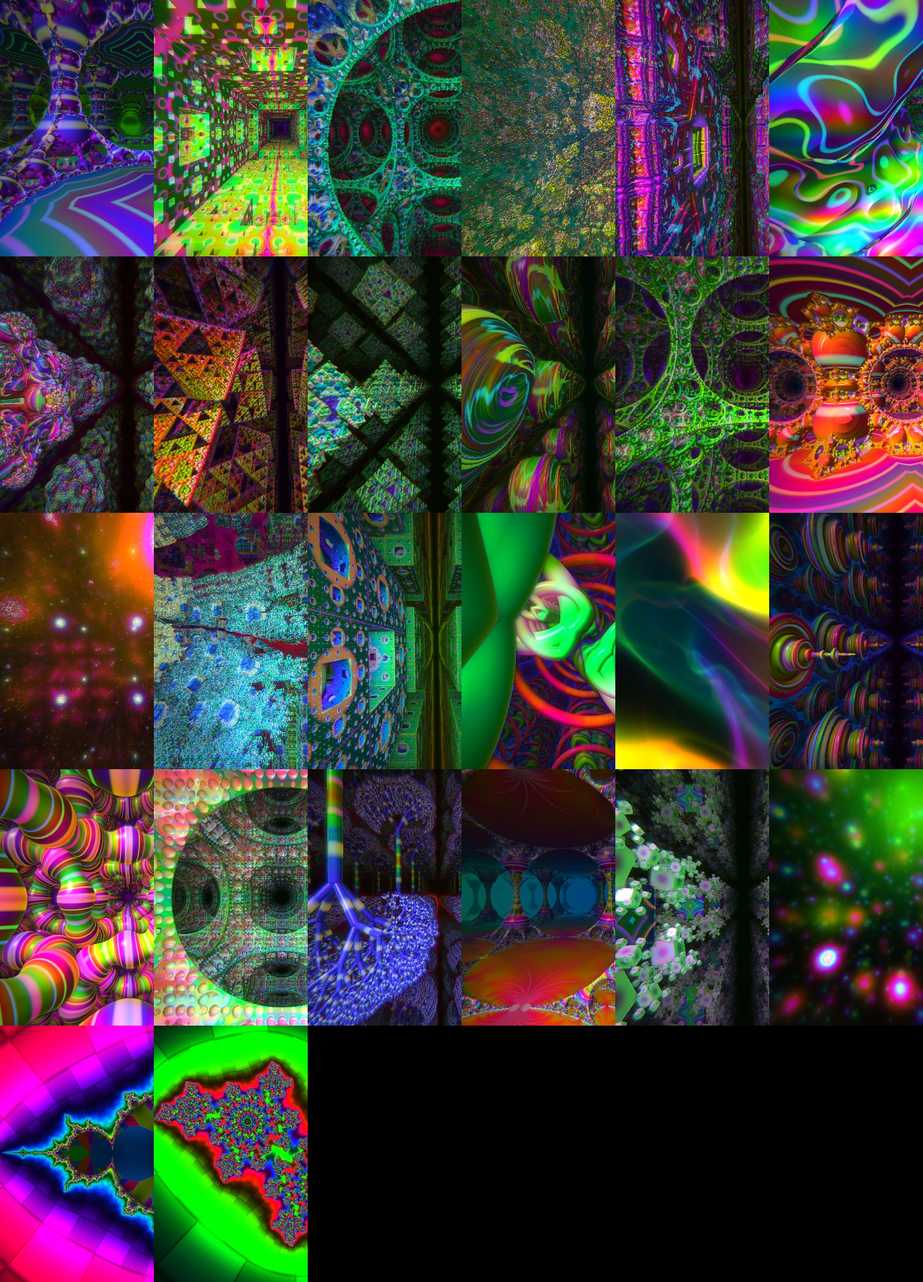
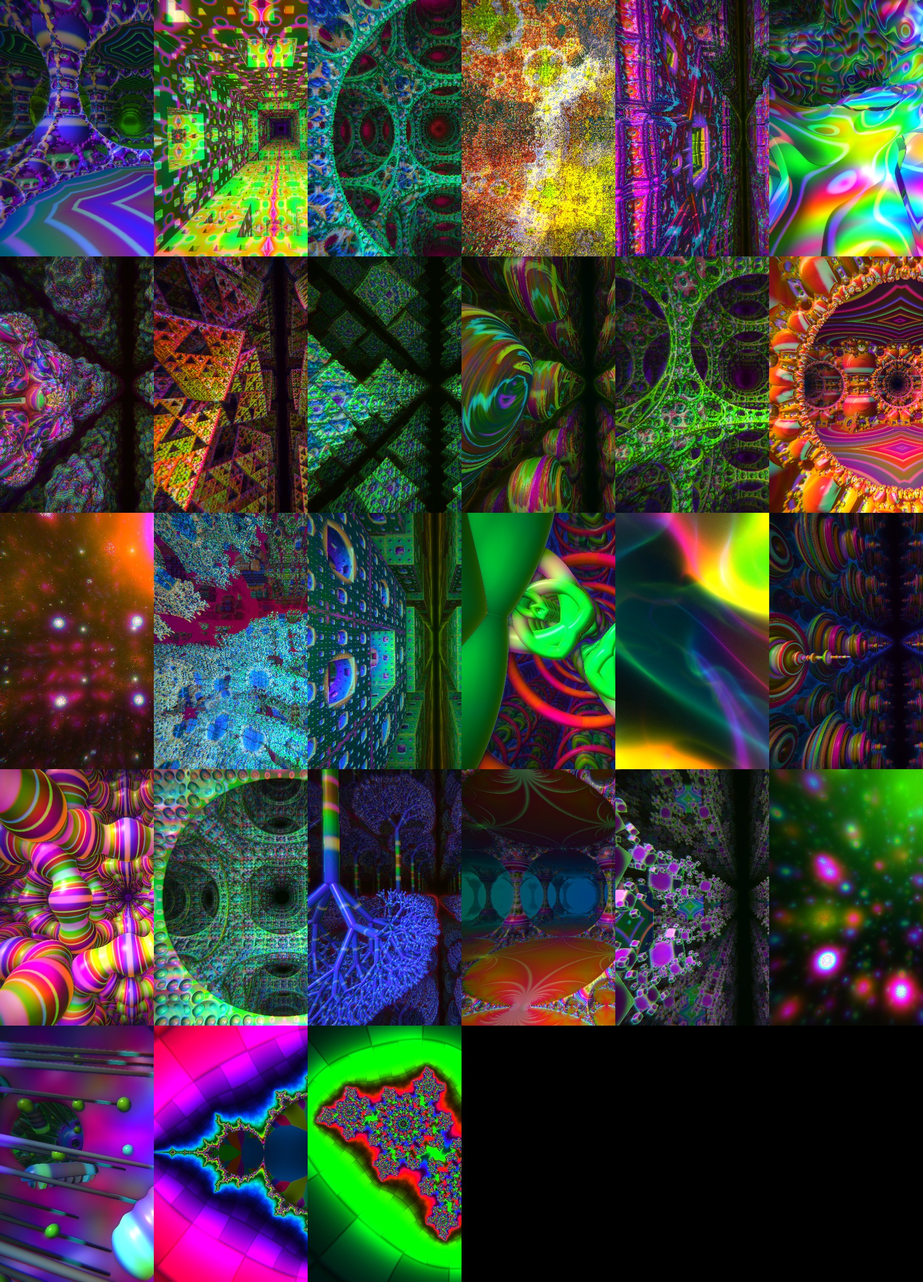
Cell: a new world, the inside of a living cell (membrane, nucleus, microtubules, mitochondria, vesicles)
One cell to every 8 units, each the mirror image of its neighbours, with an
opening in each side to fly through. The nucleus has 26 ringed pores; half the
mitochondria are cut open to show the plates inside. Mitochondria and vesicles
are placed per block with whole numbers, as in Tangle. The endoplasmic
reticulum, the Golgi, the centrosome and the inside of the nucleus are still
to come.

Claude-Session: https://claude.ai/code/session_01P6VPRAEHB2YHcMwxJHigoo

diff --git a/js/worlds.js b/js/worlds.js
@@ -653,6 +653,120 @@ export const WORLDS=[
  "  return lay(p,40.0-9.0*uM)+0.7*lay(p*2.0+3.3,34.0)+0.06*exp(-3.0*abs(dot(sin(p*0.7854),cos(p.zxy*0.7854))));",
  "}"],
  de:function(){return .25}},
+/* The inside of a living cell, one cell to every 8 units, each the mirror image of its neighbours so that the walls
+   between them meet exactly. The wall is the cell's membrane, with a round opening in the middle of each side; in the
+   middle is the nucleus, a hollow ball with 26 pores; thin straight tubes run from the nucleus out to the wall.
+   For those the point is folded into one forty-eighth of the cell (its three distances from the middle, largest
+   first), so each shape is written once. Between the nucleus and the wall lie mitochondria and vesicles, which are
+   not folded: which block of the cell holds one, and how it lies, comes from a number worked out from the block's
+   place with whole numbers only, as in Tangle, so the chip and JavaScript agree. */
+{id:"cell",name:"Cell",hue:.86,fog:.1,maxd:24,speed:.9,start:[2.5,-.5,-.55],
+ period:function(){return [16,16,16]},
+ glsl:[
+ "float smx(float a,float b,float k){float h=max(k-abs(a-b),0.0)/k;return max(a,b)+h*h*k*0.25;}",
+ "float mo(float x,float y){return floor(mod(x+0.5,y));}",
+ "float map(vec3 p){",
+ "  vec3 q=abs(mod(p+4.0,16.0)-8.0)-4.0;",
+ "  vec3 a=abs(q);",
+ "  if(a.x<a.y)a.xy=a.yx;",
+ "  if(a.x<a.z)a.xz=a.zx;",
+ "  if(a.y<a.z)a.yz=a.zy;",
+ "  float r=length(q);",
+ /* the membrane: everything outside a box with round corners, less a round opening along each axis */
+ "  float rip=0.04*sin(3.0*q.x)*sin(3.0*q.y)*sin(3.0*q.z);",
+ "  vec3 b=a-2.35;",
+ "  float box=length(max(b,0.0))+min(b.x,0.0)-1.5;",
+ "  float d=smx(rip-box,1.1-length(a.yz),0.35);",
+ "  orb=vec4(0.3*a.y,0.2*a.z,0.3+4.0*rip,0.06+0.02*a.x);",
+ /* the nucleus: a thin shell, with a pore on each axis, each edge's diagonal and each corner's, and a ring round each pore */
+ "  float pr=0.26+0.05*uM;",
+ "  float e2=length(a-vec3(0.5,0.5,0.0)*(a.x+a.y));",
+ "  float e3=length(a-vec3(a.x+a.y+a.z)/3.0);",
+ "  float pd=min(length(a.yz),min(e2,e3));",
+ "  float nu=min(smx(abs(r-1.5)-0.06,pr-pd,0.1),length(vec2(pd-pr,r-1.5))-0.07);",
+ "  if(nu<d){d=nu;orb=vec4(0.4*pd,0.3*abs(r-1.5),clamp(1.0-2.0*pd,0.0,1.0),0.42+0.25*pd);}",
+ /* the tubes: two straight rods from the nucleus to the wall, which the fold makes 96 */
+ "  vec3 w=vec3(0.8313,0.5154,0.2078);",
+ "  float mt=length(a-w*clamp(dot(a,w),1.5,4.8))-0.03;",
+ "  w=vec3(0.6880,0.6192,0.3784);",
+ "  mt=min(mt,length(a-w*clamp(dot(a,w),1.5,5.8))-0.03);",
+ "  if(mt<d){d=mt;orb=vec4(0.1,0.0,0.6,0.7+0.12*r);}",
+ /* the mitochondria: the cell is cut into 4 by 4 by 4 blocks, and three in four of the 24 blocks in the middle of a side
+    hold one, a capsule lying one of six ways. Half of them are cut open along their length to show the plates inside.
+    A block's shape stays 0.15 inside its block, so no point is nearer a neighbour's shape than its block's side plus 0.15. */
+ "  vec3 c2=min(floor(q*0.5+2.0),3.0);vec3 f=q-(2.0*c2-3.0);vec3 e=abs(c2-1.5);",
+ "  float n=c2.x+4.0*c2.y+16.0*c2.z;float h=mo(n*(n+3.0),61.0);",
+ "  float mi=1.15-max(abs(f.x),max(abs(f.y),abs(f.z)));",
+ "  bool has=abs(e.x+e.y+e.z-2.5)<0.25&&mo(h,4.0)>0.5;",
+ "  if(has){",
+ "    float k=mo(floor((h+0.5)*0.25),3.0);float s=h>30.5?0.7071:-0.7071;",
+ "    vec3 u=vec3(0.7071,s,0.0);vec3 v=vec3(0.0,0.0,1.0);",
+ "    if(k>0.5){u=u.zxy;v=v.zxy;}",
+ "    if(k>1.5){u=u.zxy;v=v.zxy;}",
+ "    float t=dot(f,u);float cp=length(f-u*clamp(t,-0.55,0.55))-0.28;",
+ "    float pl=abs(mod(t+4.0,0.2)-0.1)-0.03;",
+ "    if(mo(floor((h+0.5)*0.125),2.0)>0.5)cp=min(max(abs(cp)-0.025,dot(f,v)),max(cp+0.06,pl));",
+ "    else cp+=0.012*cos(31.4159*t);",
+ "    if(cp<mi){mi=cp;if(mi<d)orb=vec4(0.5*abs(t),0.2,0.5+2.0*pl,0.22+0.25*t);}",
+ "  }",
+ "  d=min(d,mi);",
+ /* the vesicles: the cell is cut into 8 by 8 by 8 small blocks too, and about a third of those between the nucleus and
+    the wall, outside the mitochondria's blocks, hold a ball of one of four sizes, a little off the block's middle */
+ "  vec3 c1=min(floor(q+4.0),7.0);vec3 cc=c1-3.5;vec3 f1=q-cc;",
+ "  float n1=c1.x+8.0*c1.y+64.0*c1.z;float h1=mo(n1*(n1+3.0),61.0);",
+ "  float ve=0.7-max(abs(f1.x),max(abs(f1.y),abs(f1.z)));",
+ "  if(!has&&h1<21.5&&max(abs(cc.x),max(abs(cc.y),abs(cc.z)))<3.0&&dot(cc,cc)>4.41){",
+ "    vec3 o=0.07*(vec3(mo(h1,3.0),mo(floor((h1+0.5)/3.0),3.0),mo(floor((h1+0.5)/9.0),3.0))-1.0);",
+ "    float vs=length(f1-o)-(0.09+0.025*mo(h1,4.0)+0.015*uM);",
+ "    if(vs<ve){ve=vs;if(ve<d)orb=vec4(0.3,0.1,0.2,0.9+0.01*h1);}",
+ "  }",
+ "  d=min(d,ve);",
+ "  return 0.8*d;",
+ "}"],
+ de:function(x,y,z,m){
+  function smx(a,b,k){var h=Math.max(k-Math.abs(a-b),0)/k;return Math.max(a,b)+h*h*k*.25}
+  function mo(v,k){return Math.floor(md(v+.5,k))}
+  function rod(wx,wy,wz,far){var t=Math.max(1.5,Math.min(far,ax*wx+ay*wy+az*wz));return Math.hypot(ax-wx*t,ay-wy*t,az-wz*t)-.03}
+  var qx=tile(x,8),qy=tile(y,8),qz=tile(z,8),ax=Math.abs(qx),ay=Math.abs(qy),az=Math.abs(qz),t;
+  if(ax<ay){t=ax;ax=ay;ay=t}
+  if(ax<az){t=ax;ax=az;az=t}
+  if(ay<az){t=ay;ay=az;az=t}
+  var r=Math.hypot(qx,qy,qz);
+  var rip=.04*Math.sin(3*qx)*Math.sin(3*qy)*Math.sin(3*qz);
+  var bx=ax-2.35,by=ay-2.35,bz=az-2.35;
+  var box=Math.hypot(Math.max(bx,0),Math.max(by,0),Math.max(bz,0))+Math.min(bx,0)-1.5;
+  var d=smx(rip-box,1.1-Math.hypot(ay,az),.35);
+  var pr=.26+.05*m,s=.5*(ax+ay),c=(ax+ay+az)/3;
+  var pd=Math.min(Math.hypot(ay,az),Math.hypot(ax-s,ay-s,az),Math.hypot(ax-c,ay-c,az-c));
+  d=Math.min(d,smx(Math.abs(r-1.5)-.06,pr-pd,.1),Math.hypot(pd-pr,r-1.5)-.07);
+  d=Math.min(d,rod(.8313,.5154,.2078,4.8),rod(.6880,.6192,.3784,5.8));
+  var c2x=Math.min(Math.floor(qx*.5+2),3),c2y=Math.min(Math.floor(qy*.5+2),3),c2z=Math.min(Math.floor(qz*.5+2),3);
+  var fx=qx-(2*c2x-3),fy=qy-(2*c2y-3),fz=qz-(2*c2z-3);
+  var n=c2x+4*c2y+16*c2z,h=mo(n*(n+3),61);
+  var mi=1.15-Math.max(Math.abs(fx),Math.abs(fy),Math.abs(fz));
+  var has=Math.abs(Math.abs(c2x-1.5)+Math.abs(c2y-1.5)+Math.abs(c2z-1.5)-2.5)<.25&&mo(h,4)>.5;
+  if(has){
+    var k=mo(Math.floor((h+.5)*.25),3),sg=h>30.5?.7071:-.7071,ux=.7071,uy=sg,uz=0,vx=0,vy=0,vz=1;
+    if(k>.5){t=uz;uz=uy;uy=ux;ux=t;t=vz;vz=vy;vy=vx;vx=t}
+    if(k>1.5){t=uz;uz=uy;uy=ux;ux=t;t=vz;vz=vy;vy=vx;vx=t}
+    var tt=fx*ux+fy*uy+fz*uz,tc=Math.max(-.55,Math.min(.55,tt)),cp=Math.hypot(fx-ux*tc,fy-uy*tc,fz-uz*tc)-.28;
+    var pl=Math.abs(md(tt+4,.2)-.1)-.03;
+    if(mo(Math.floor((h+.5)*.125),2)>.5)cp=Math.min(Math.max(Math.abs(cp)-.025,fx*vx+fy*vy+fz*vz),Math.max(cp+.06,pl));
+    else cp+=.012*Math.cos(31.4159*tt);
+    mi=Math.min(mi,cp);
+  }
+  d=Math.min(d,mi);
+  var c1x=Math.min(Math.floor(qx+4),7),c1y=Math.min(Math.floor(qy+4),7),c1z=Math.min(Math.floor(qz+4),7);
+  var ccx=c1x-3.5,ccy=c1y-3.5,ccz=c1z-3.5,gx=qx-ccx,gy=qy-ccy,gz=qz-ccz;
+  var n1=c1x+8*c1y+64*c1z,h1=mo(n1*(n1+3),61);
+  var ve=.7-Math.max(Math.abs(gx),Math.abs(gy),Math.abs(gz));
+  if(!has&&h1<21.5&&Math.max(Math.abs(ccx),Math.abs(ccy),Math.abs(ccz))<3&&ccx*ccx+ccy*ccy+ccz*ccz>4.41){
+    gx-=.07*(mo(h1,3)-1);gy-=.07*(mo(Math.floor((h1+.5)/3),3)-1);gz-=.07*(mo(Math.floor((h1+.5)/9),3)-1);
+    ve=Math.min(ve,Math.hypot(gx,gy,gz)-(.09+.025*mo(h1,4)+.015*m));
+  }
+  d=Math.min(d,ve);
+  return .8*d;
+ }},
 /* The two zoom worlds are flat pictures, not spaces: js/zoom.js draws them and moves the view. They are marked as cloud
    worlds too, so that everything that needs a surface (the orb's check, the thrown light, the distance probe) leaves them alone. */
 {id:"mzoom",name:"Mandelbrot zoom",hue:.55,fog:0,maxd:1,speed:.5,start:[.3,.2,.1],volume:true,flat:true,

diff --git a/index.html b/index.html
@@ -105,7 +105,7 @@
 <div id="start">
   <div class="card">
     <h1>Mirrorfold</h1>
-    <p>Twenty-six endless fractal worlds to fly through. They breathe, recolour and pulse with the music, and you can never hit a wall. Turn on Journey to sit back and be flown.</p>
+    <p>Twenty-seven endless fractal worlds to fly through. They breathe, recolour and pulse with the music, and you can never hit a wall. Turn on Journey to sit back and be flown.</p>
     <p>Each world hides a glowing orb. Fly into it. The first six you find each unlock a new palette. The Orbs button hides them.</p>
     <p id="how"></p>
     <p>For Apple Music or any other app: enter silent, start your song there, then set Music to Tap tempo and tap along.</p>

diff --git a/docs/ARCHITECTURE.md b/docs/ARCHITECTURE.md
@@ -10,7 +10,7 @@ Mirrorfold is a first-person fly-through of endless fractal worlds, rendered by 
 
 Features, in the order a user meets them:
 
-- **26 worlds.** 21 are surfaces found by sphere tracing a distance estimator; 3 (Nebula, Aurora, Lanterns) are volumetric; 2 (Mandelbrot zoom, Julia zoom) are flat pictures (section 6c).
+- **27 worlds.** 22 are surfaces found by sphere tracing a distance estimator; 3 (Nebula, Aurora, Lanterns) are volumetric; 2 (Mandelbrot zoom, Julia zoom) are flat pictures (section 6c).
 - **Free flight** with six degrees of freedom. Speed scales with distance to the nearest surface, so you cannot hit a wall.
 - **Kaleidoscope mirrors**: off, 3, 4, 6, 8 or 12 segments, applied to the ray direction.
 - **13 palettes** (7 available at once, 6 unlocked by finding orbs).
@@ -286,6 +286,7 @@ Two requirements matter more than anything else when adding or changing a world:
 | Thicket | Branching trees | Mirror tile `P=3`; a stem (capsule of length 1), then `p.y -= 1; p.xz = abs(p.xz)`, two leans, `p *= 1.6`; 7 levels; factor 0.8 | 6 | the lean |
 | Kleinian | Limit set of a Kleinian group (Jos Leys, Knighty) | y mirror-folded into the slab `[0, a]`; 12 times: wrap x and z to `[-1,1]`, turn the upper half over onto the lower, invert `p = -p/r2` and move by `(0, a)`; `0.6*min(y, a-y, 0.3)/max(df, 2)` | 2, 2a, 2 | `a = 1.9 + 0.04m` |
 | Pyrite | Cubes on cubes' corners | Mirror tile `P=4`; a cube of half-size 0.5, then `p = abs(p) - 0.66`, two rotations, `p *= 2.6`; 4 levels; factor 0.9 | 8 | rotation |
+| Cell | The inside of a living cell (not a fractal) | Mirror tile `P=8`, then the point's three distances from the cell's middle sorted largest first, so each shape is written once and appears 48 times. Membrane: outside a box of half-size 3.85 with corners of radius 1.5, less a round opening of radius 1.1 along each axis, rippled. Nucleus: a shell of radius 1.5 with 26 pores (axes, edge diagonals, corner diagonals), each with a ring. Microtubules: two rods from the nucleus to the wall, 96 after the fold. Mitochondria (not folded): the cell is cut into 4x4x4 blocks of side 2, and three in four of the 24 blocks in the middle of a side hold a capsule (half-length 0.55, radius 0.28) lying one of six ways, half of them cut open along their length to show plates inside; presence, direction and cut are bits of `n(n+3) mod 61`, `n` being the block's place. Vesicles: 8x8x8 blocks of side 1, about a third of those between nucleus and wall and outside a mitochondrion's block hold a ball of one of four sizes. A block's shape keeps a margin inside its block, and the distance is capped at the distance to the block's side plus that margin, so a neighbour's shape is never overstepped; factor 0.8. Built in stages: the endoplasmic reticulum, the Golgi, the centrosome and the inside of the nucleus are still to come | 16 | pore size, vesicle size |
 | Nebula | Volumetric Kaliset | `p = abs(p)/dot(p,p) - f`, 10 iterations, accumulating `|len - prevLen|`; cubed | 2 | `f = 0.55 + 0.03m` |
 | Aurora | Volumetric warped gyroid | Three octaves of `p += A*sin(p.yzx*F + t)`, then `exp(-k*|gyroid|)` ribbons | 2π | ribbon width |
 | Lanterns | Volumetric lights | One soft light to a unit cell and one to a half cell, each off its cell's middle by a hash of the cell (mod 8) and swaying with the clock, faded toward the cell's sides so that none is cut; plus a faint gyroid haze | 8 | size of the larger lights |

diff --git a/README.md b/README.md
@@ -13,7 +13,7 @@
 >
 > Mirrorfold is designed to avoid strobing, but it has **not** been tested or certified against any photosensitivity standard, and no setting makes it safe for everyone. It is not a medical device and nothing here is medical advice. It is provided "as is", without warranty of any kind, and you use it entirely at your own risk; see the [licence](LICENSE).
 
-Fly through endless fractal worlds in your browser. Twenty-six worlds, kaleidoscope mirrors, feedback trails, filters, overlays, and an autopilot that reacts to music.
+Fly through endless fractal worlds in your browser. Twenty-seven worlds, kaleidoscope mirrors, feedback trails, filters, overlays, and an autopilot that reacts to music.
 
 This project is inspired in part by the music visualizers from decades past… from Winamp plugins to the standalone visualizer MilkDrop. This has a familiar feel when in Journey mode (an autopilot that flies through the procedurally generated 3D worlds) while listening to music. 
 
@@ -31,7 +31,7 @@ Relax, unwind, and enjoy!
 
 **Try it: https://gcrabtree.github.io/MirrorFold/**
 
-![Contact sheet of all 26 worlds](docs/worlds.jpg)
+![Contact sheet of all 27 worlds](docs/worlds.jpg)
 
 The app is one page, one stylesheet and a folder of JavaScript modules. There is no build step and no JavaScript dependency. It uses WebGL 1, so it runs in any current browser on a phone or a desktop.
 
@@ -58,7 +58,7 @@ The app is one page, one stylesheet and a folder of JavaScript modules. There is
 
 ## What it does
 
-- **26 worlds.** Twenty-one are solid fractal surfaces; three (Nebula, Aurora and Lanterns) are glowing volumes; two (Mandelbrot zoom and Julia zoom) are flat pictures seen from above that zoom in and out. Every world you fly through repeats forever in all directions.
+- **27 worlds.** Twenty-two are solid surfaces, all fractals but Cell (the inside of a living cell); three (Nebula, Aurora and Lanterns) are glowing volumes; two (Mandelbrot zoom and Julia zoom) are flat pictures seen from above that zoom in and out. Every world you fly through repeats forever in all directions.
 - **Zooms a trillion times deep.** The two zoom worlds magnify the Mandelbrot set and Julia sets up to about a trillion times, on points where there is always something to see. See [The zoom worlds](#the-zoom-worlds).
 - **Free flight** in any direction, with roll. Your speed drops as you approach a surface, so you can never hit a wall.
 - **Morph.** Each world slowly changes shape as you fly.
@@ -486,7 +486,7 @@ Sound goes through one Web Audio analyser. Three bands each keep a level and a s
 | `js/` | The app, as about 53 modules; the architecture document lists what each holds |
 | `docs/ARCHITECTURE.md` | How it works, in detail |
 | `docs/TV.md` | How to show Mirrorfold on a TV by screen mirroring |
-| `docs/worlds.jpg` | Contact sheet of all 26 worlds |
+| `docs/worlds.jpg` | Contact sheet of all 27 worlds |
 | `thumbs/` | The choosers' small pictures, one for each built-in world, palette, motion, filter, overlay, mirror setting, FX setting and landscape |
 | `lang/` | The lessons' words, one flat file for each language (`en.json`) |
 | `voice/` | The lessons' voice: one sound file for each step, and `index.json`, which records the words each was made from |
